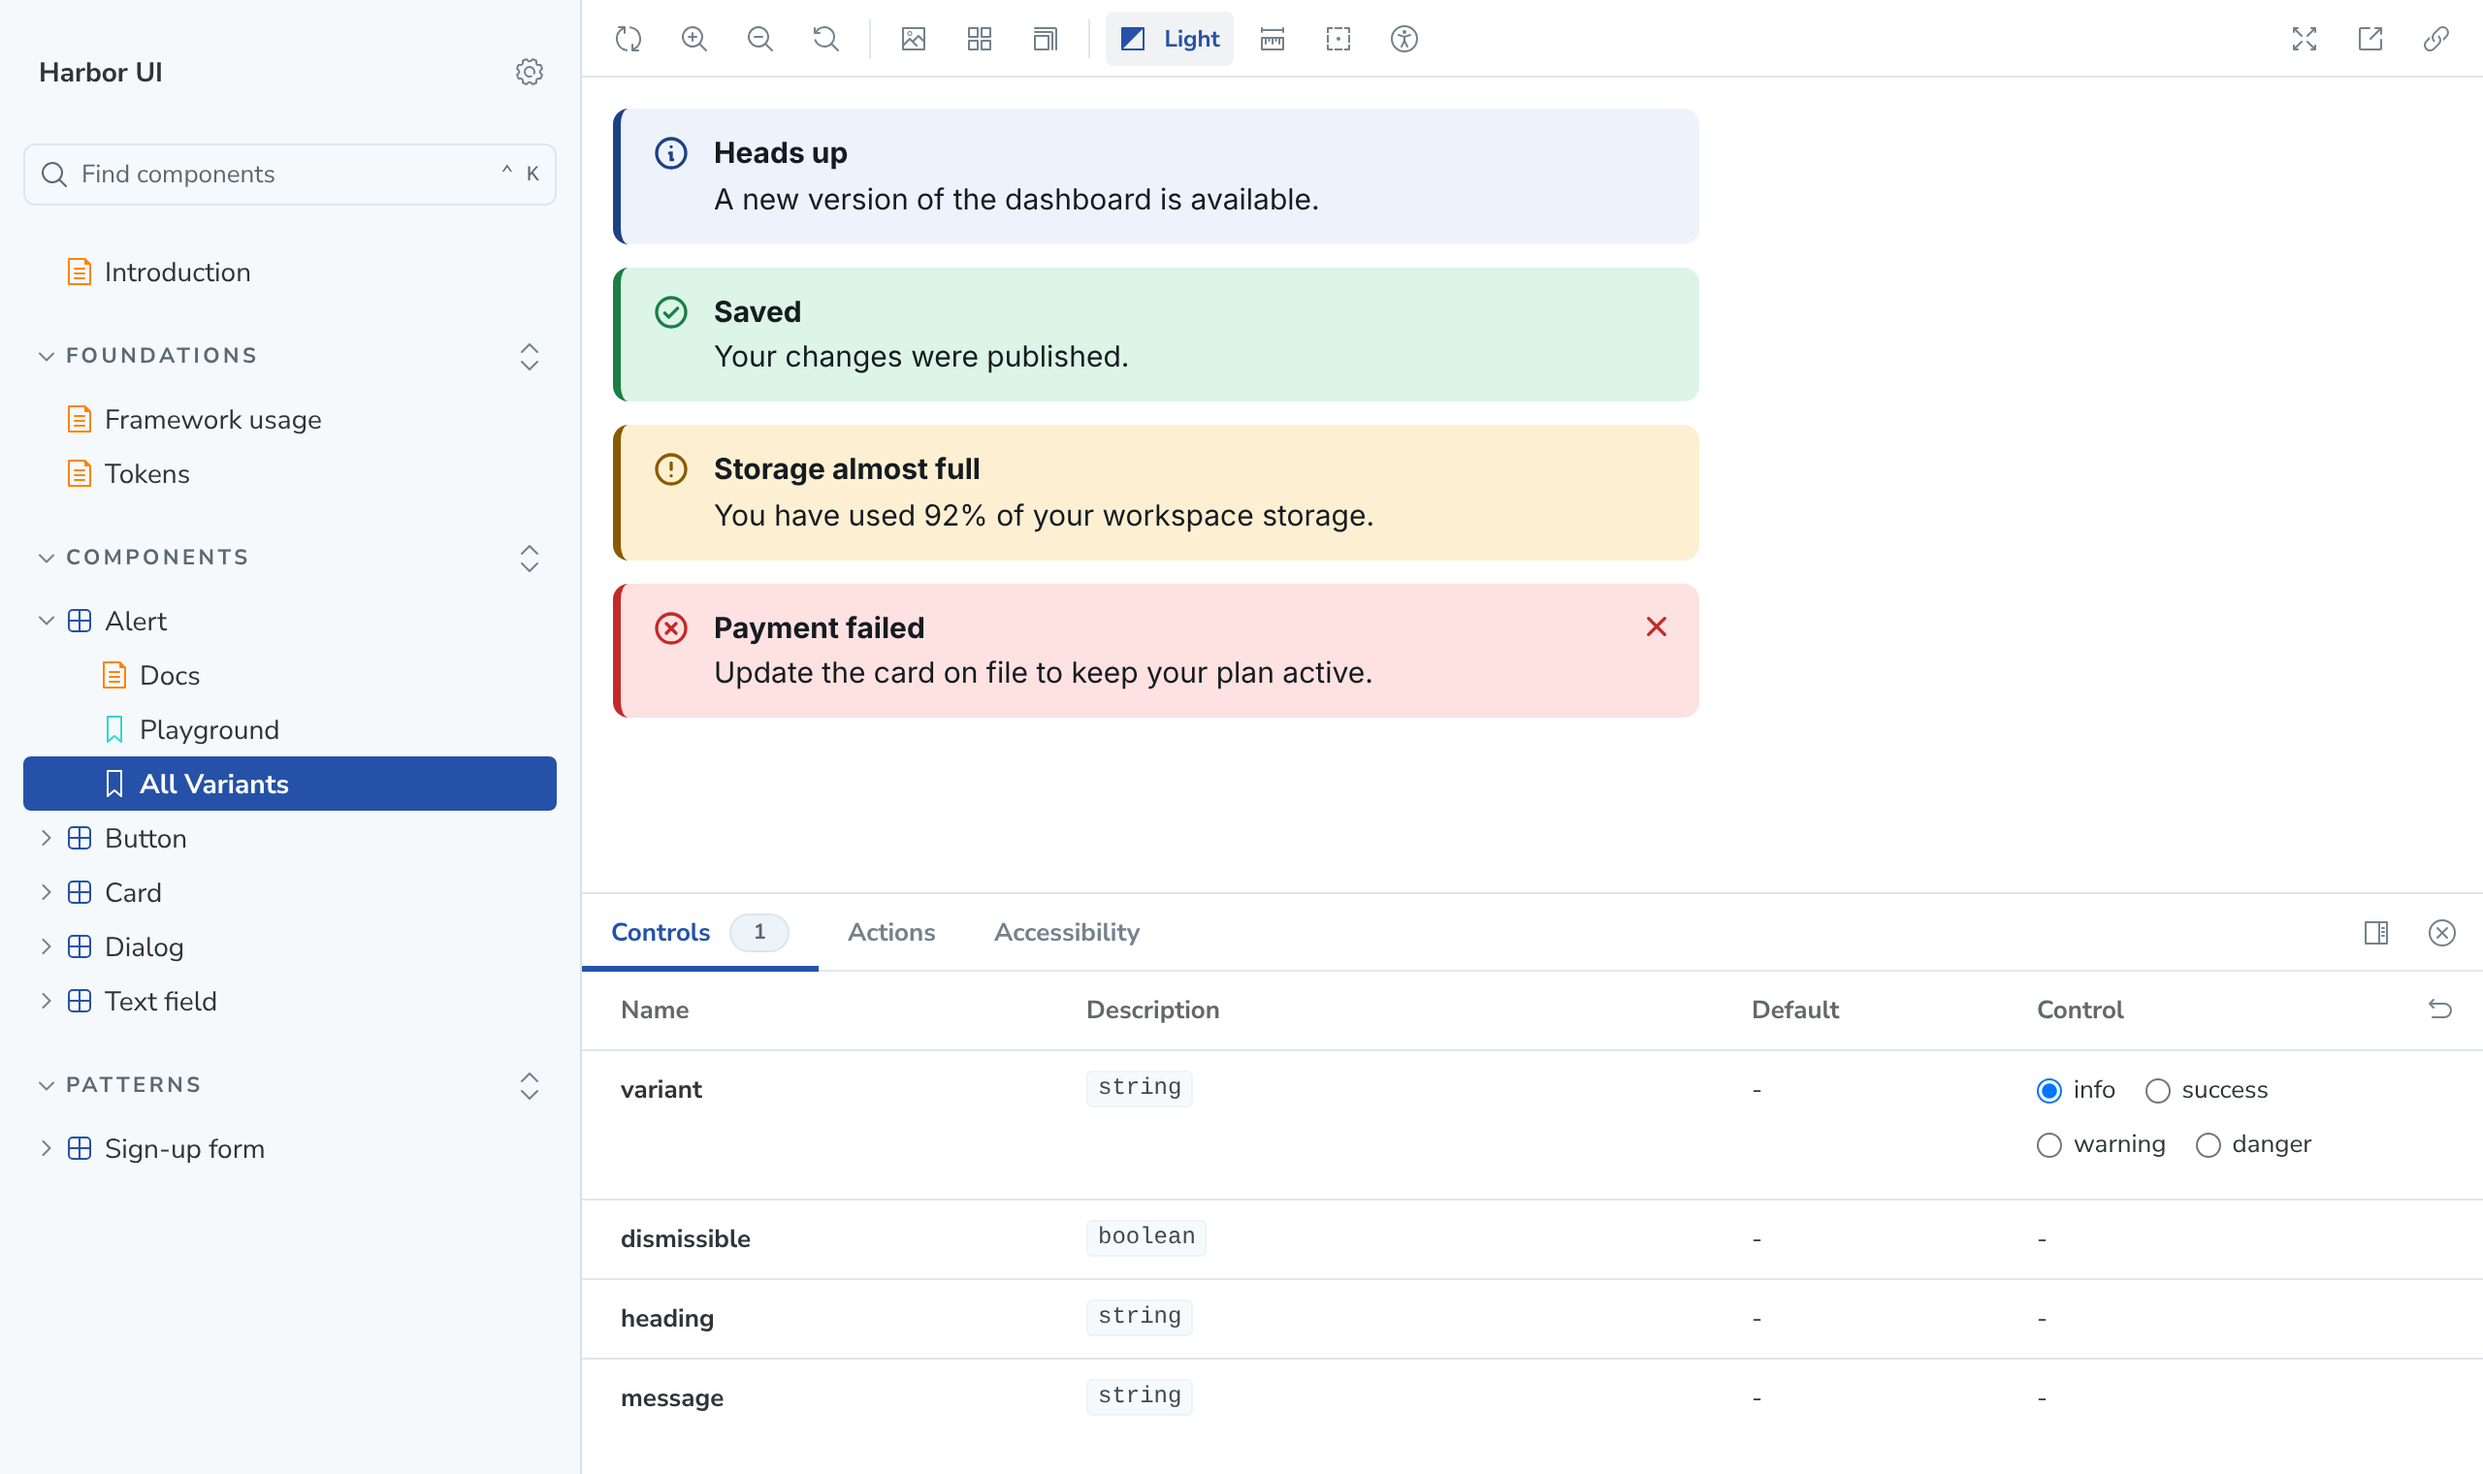
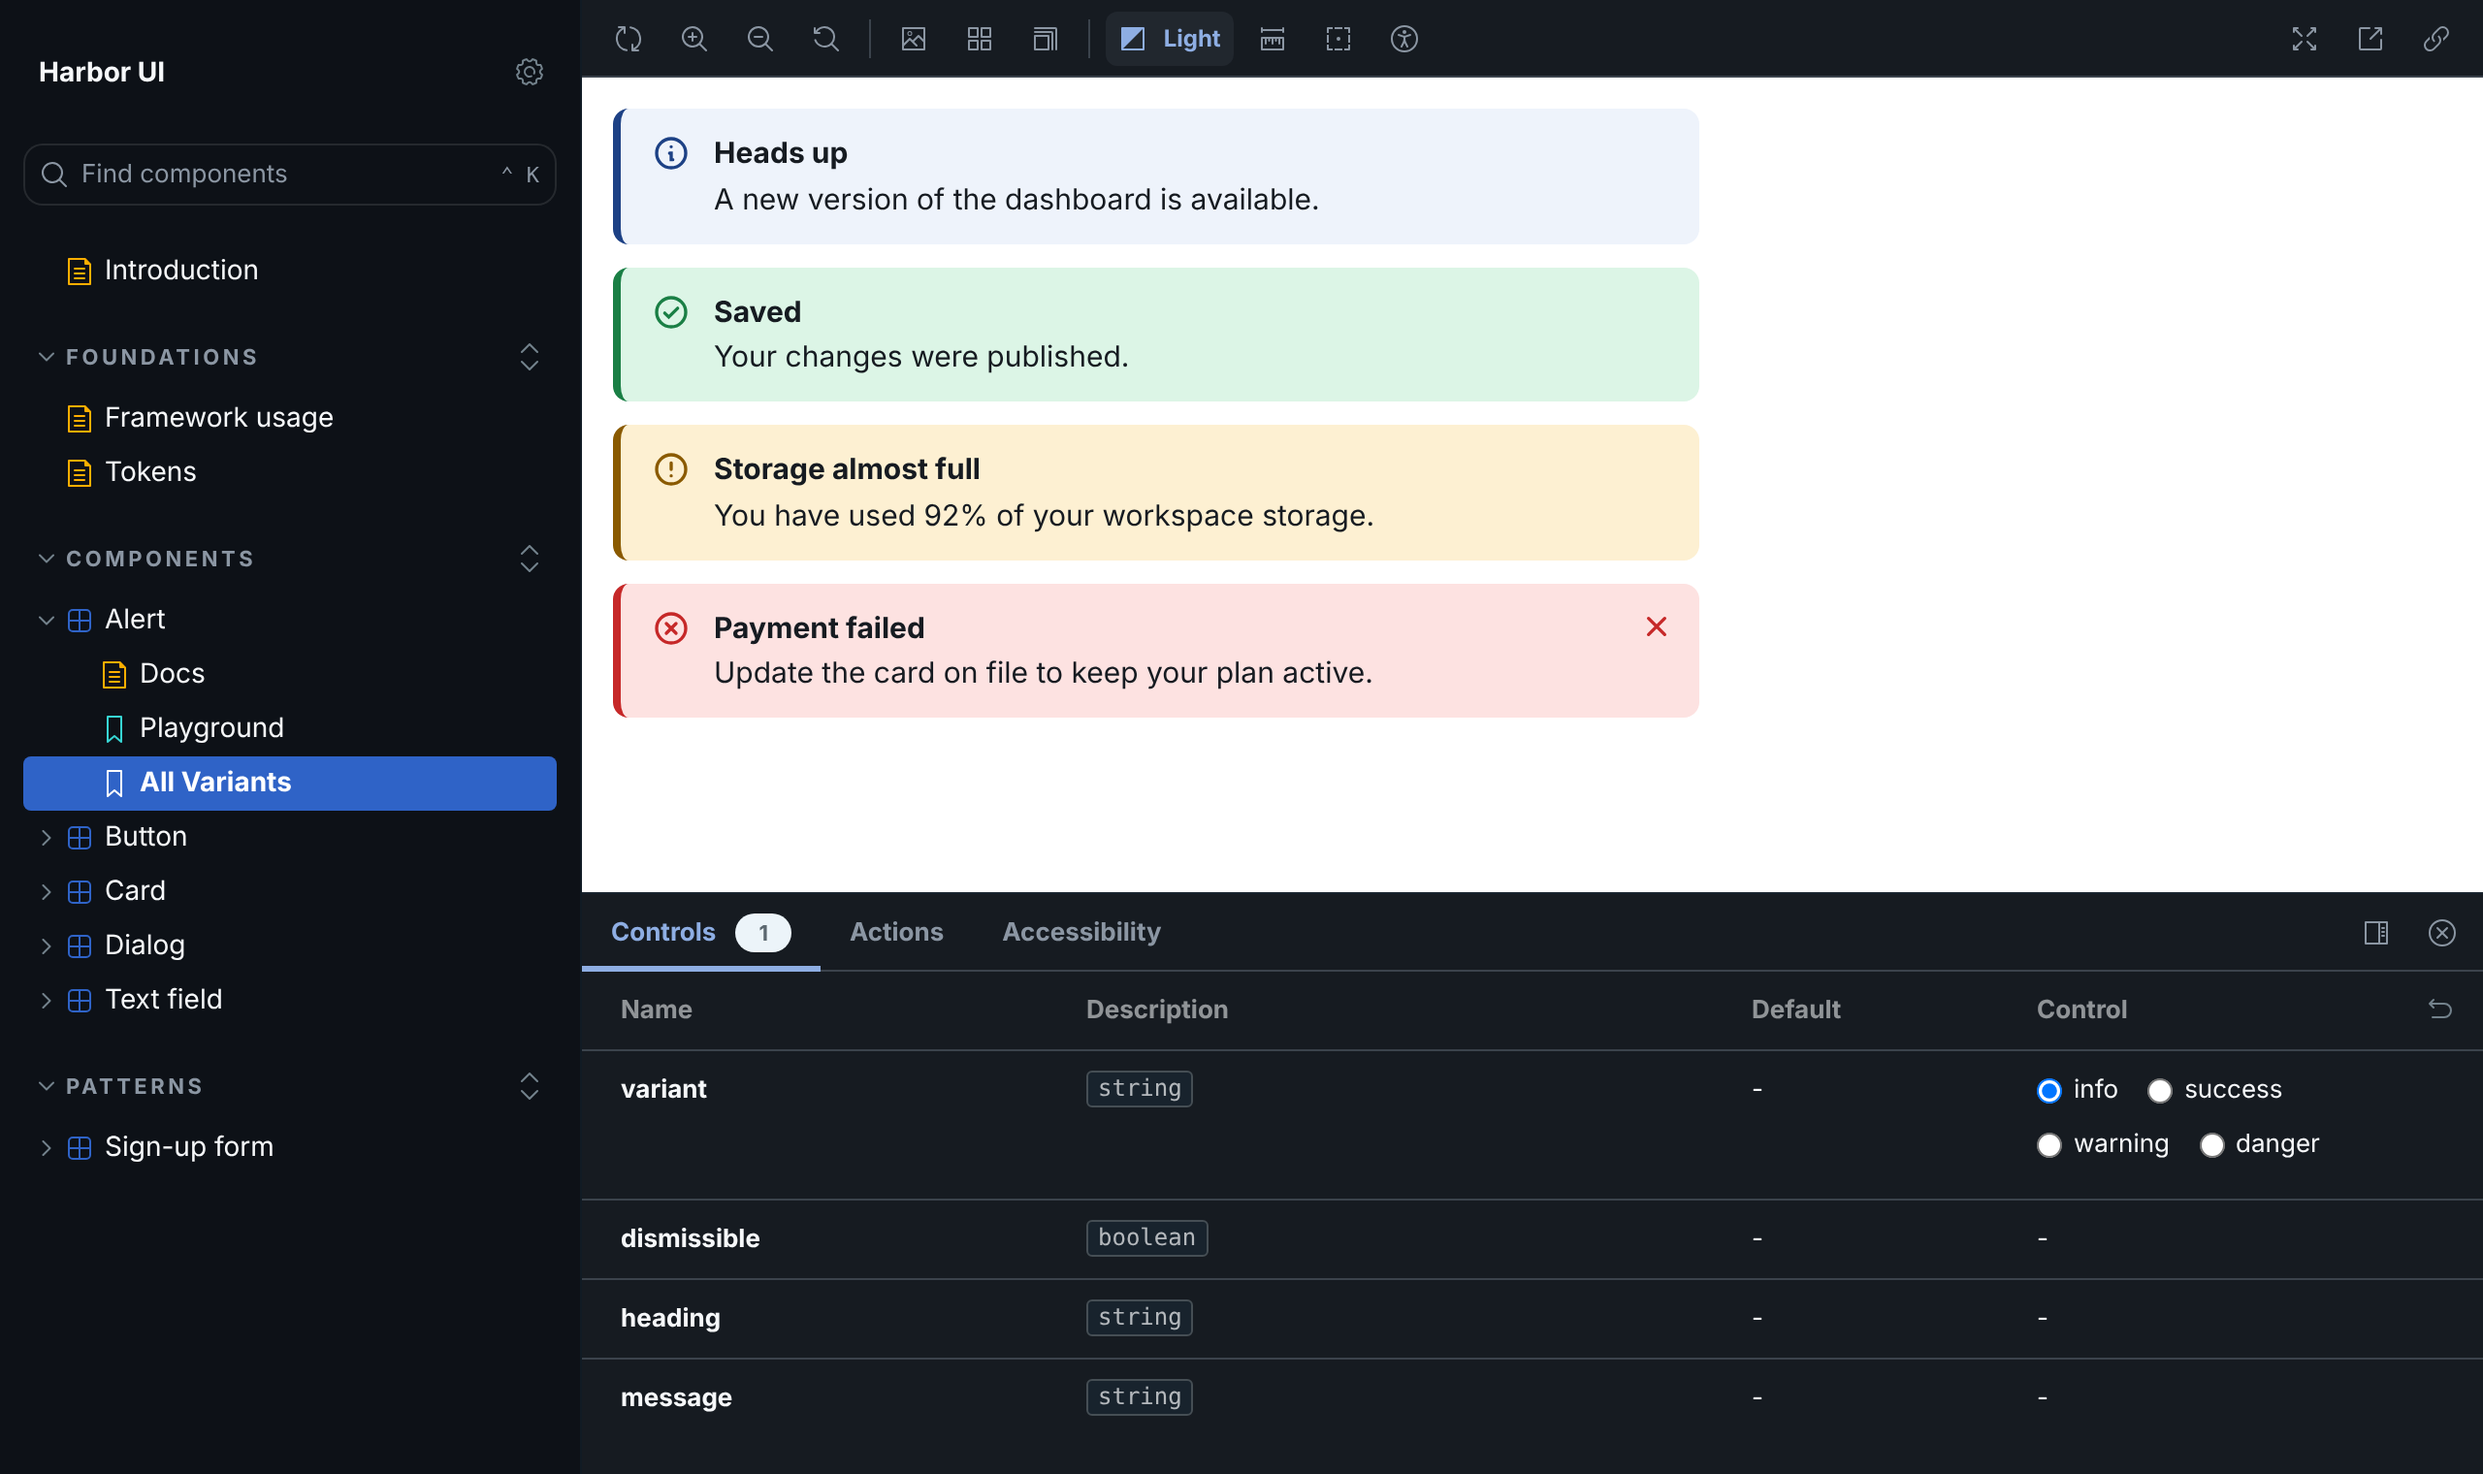
Dark Storybook chrome using the Harbor palette
Claude-Session: https://claude.ai/code/session_01We1DcQ9B5Bkvsjwf2syZK1

diff --git a/.storybook/manager.ts b/.storybook/manager.ts
@@ -1,12 +1,39 @@
 import { addons } from "@storybook/manager-api";
 import { create } from "@storybook/theming/create";
 
+// Dark Storybook chrome (sidebar, toolbar, addon panel) using Harbor's own palette.
+// The story canvas still follows the Theme toolbar toggle.
 addons.setConfig({
   theme: create({
-    base: "light",
+    base: "dark",
     brandTitle: "Harbor UI",
     brandUrl: "https://github.com/wedwu/harbor-ui",
-    colorPrimary: "#2552a8",
-    colorSecondary: "#2552a8",
+    brandTarget: "_self",
+
+    colorPrimary: "#8eaee3",
+    colorSecondary: "#2f63c7",
+
+    appBg: "#0d1117",
+    appContentBg: "#161b21",
+    appPreviewBg: "#ffffff",
+    appBorderColor: "#3b434c",
+    appBorderRadius: 8,
+
+    textColor: "#f6f8fa",
+    textInverseColor: "#0d1117",
+    textMutedColor: "#8b96a3",
+
+    barBg: "#161b21",
+    barTextColor: "#8b96a3",
+    barSelectedColor: "#8eaee3",
+    barHoverColor: "#d6e2f5",
+
+    inputBg: "#22282f",
+    inputBorder: "#3b434c",
+    inputTextColor: "#f6f8fa",
+    inputBorderRadius: 6,
+
+    fontBase: "Inter, system-ui, -apple-system, 'Segoe UI', sans-serif",
+    fontCode: "'JetBrains Mono', ui-monospace, monospace",
   }),
 });
